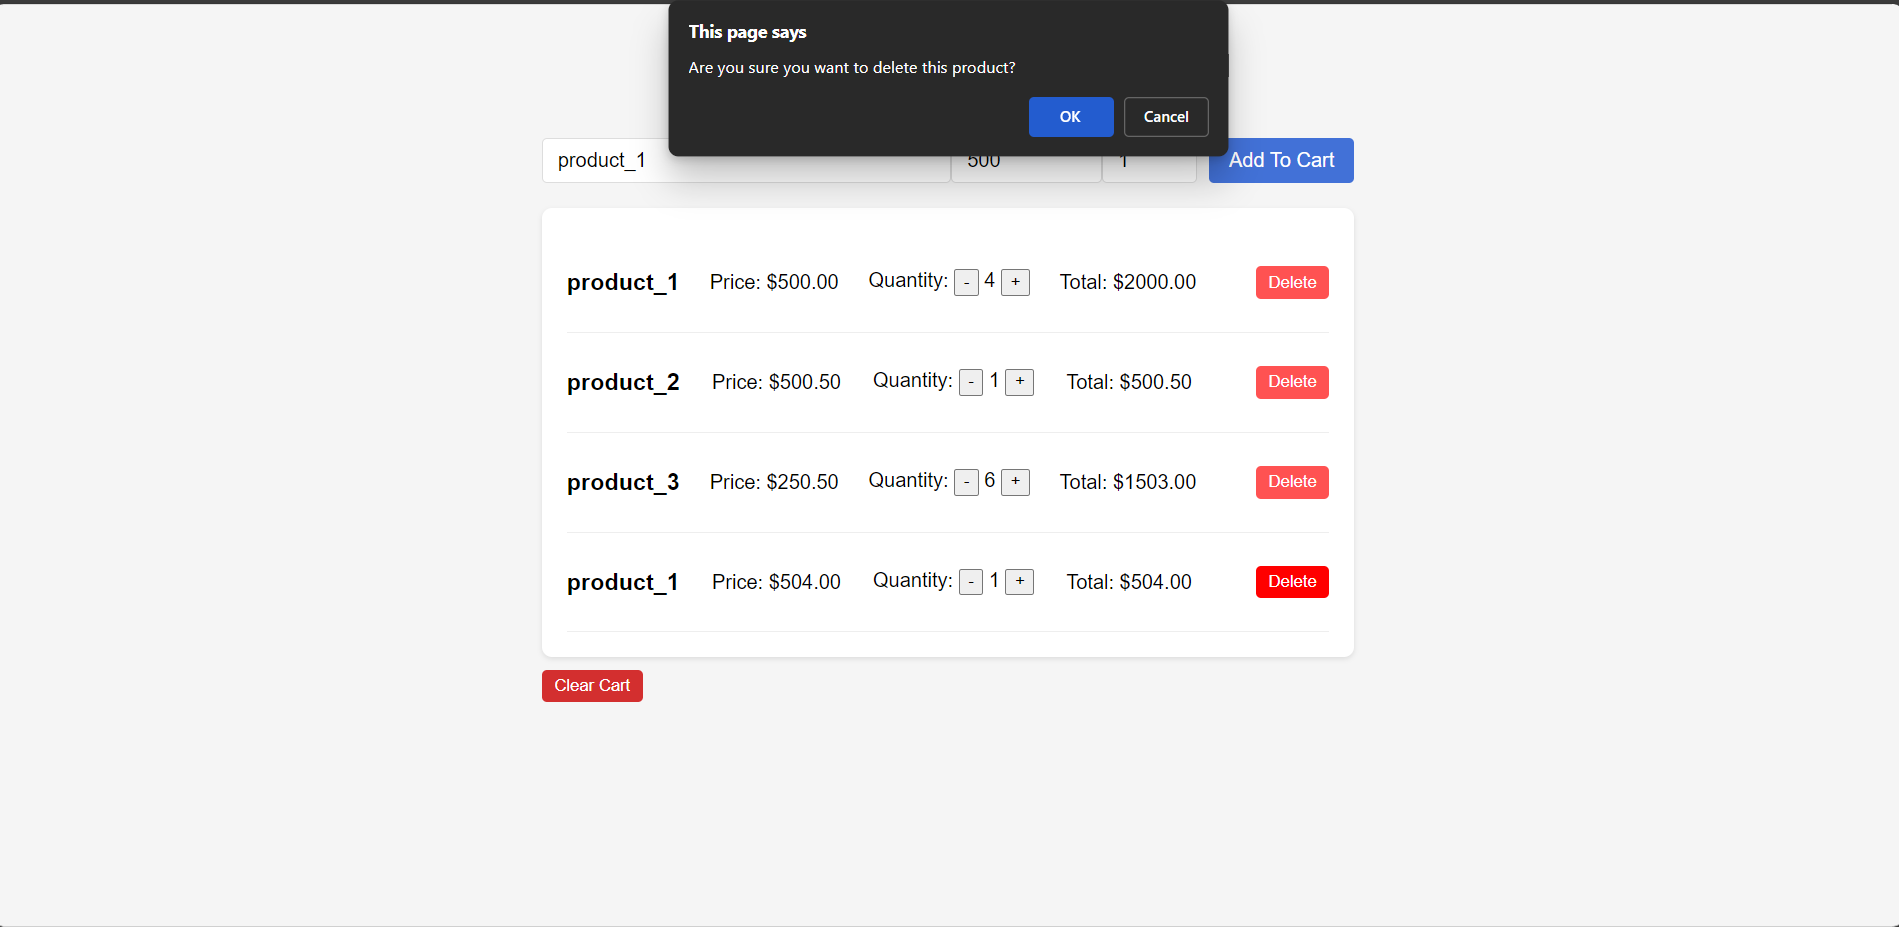
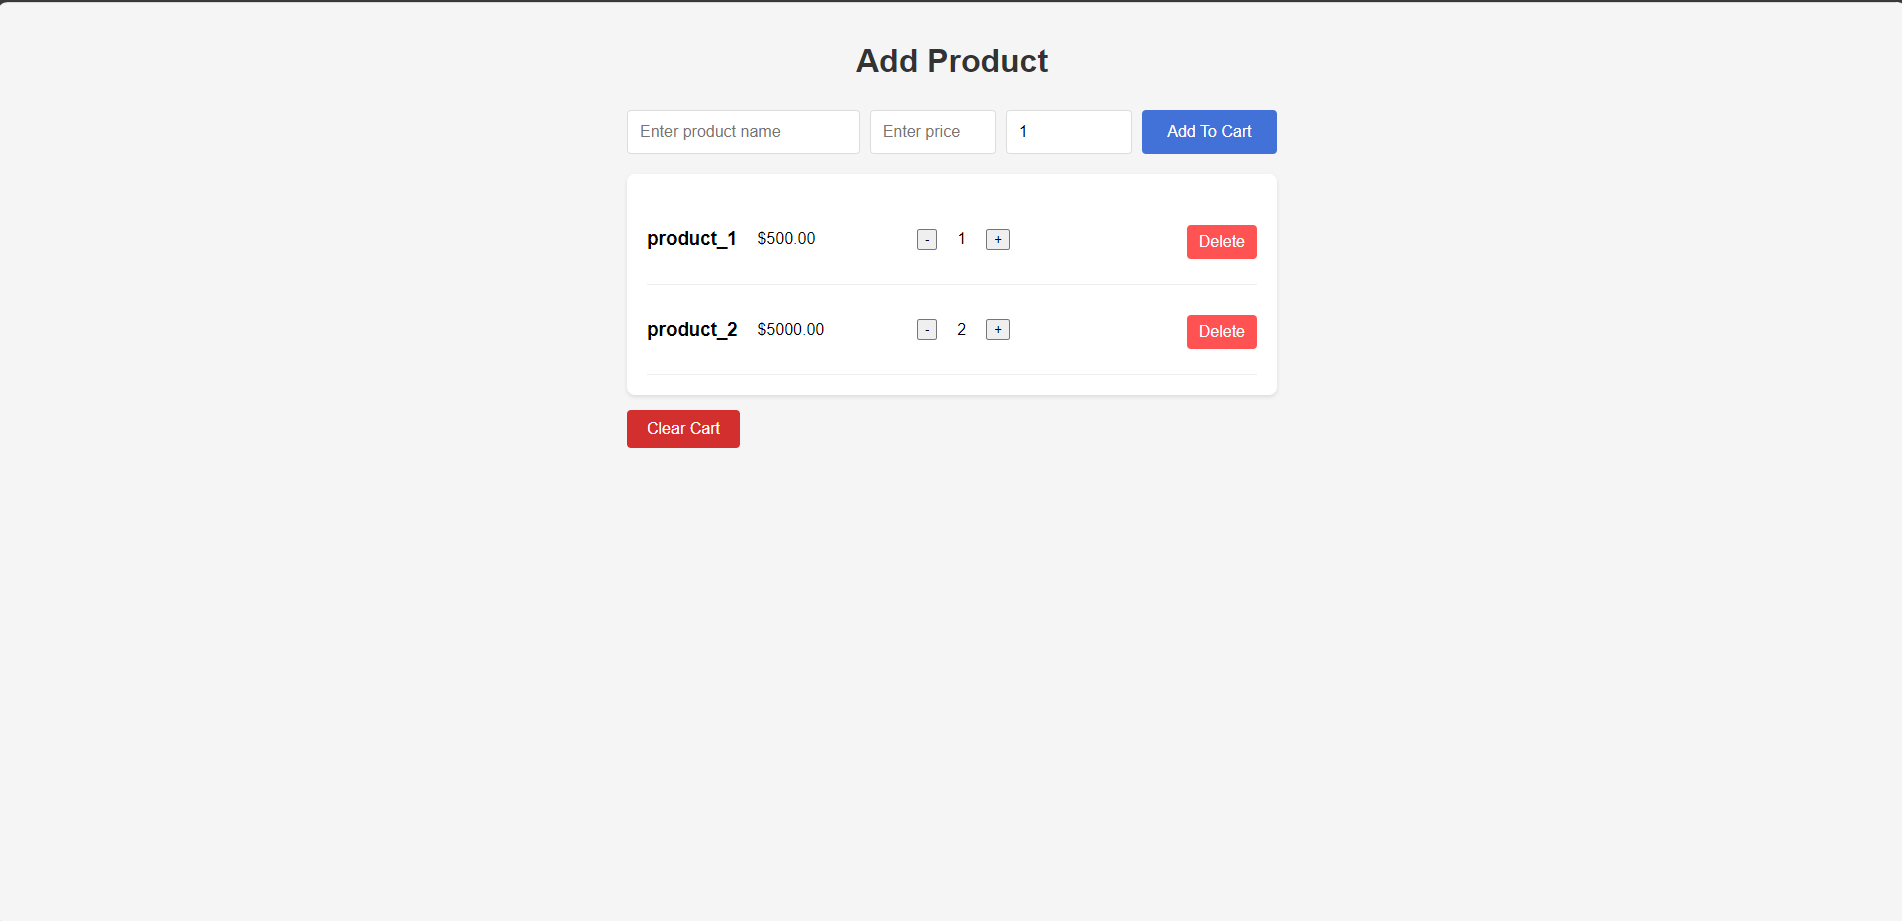
Responsive feature added

diff --git a/style.css b/style.css
@@ -1,4 +1,4 @@
-
+/*style for all devices*/
 body {
     font-family: Arial, sans-serif;
     max-width: 650px;
@@ -6,86 +6,85 @@ body {
     padding: 20px;
     background-color: #f5f5f5;
 }
-
 h1 {
     text-align: center;
     color: #333;
     margin-bottom: 30px;
 }
-
 .input_container {
     display: flex;
     margin-bottom: 20px;
 }
-
-#product_name , #product_price{
-    
-    padding: 8px 12px;
+#product_name , #product_price, #product_quantity{
+    padding:  12px;
     border: 1px solid #ddd;
     border-radius: 4px;
     font-size: 16px;
-}
-#product_name{
-    flex-grow: 1;
+    width: 100%; /* Full width */
 }
 #product_price{
 width: 95px;
 }
-#product_name:focus, #product_price:focus {
+#product_name:focus,
+ #product_price:focus,
+ #product_quantity:focus {
     outline: none;
     border-color: #4CAF50;
     box-shadow: 0 0 5px rgba(76, 175, 80, 0.3);
 }
 
-#product_quantity {
-    padding: 8px 12px;
-    border: 1px solid #ddd;
-    border-radius: 4px;
-    font-size: 16px;
-    width: 50px; 
-    margin-right: 10px;
-}
 #addProduct_btn {
     background-color: #4271d7;
     color: white;
     border: none;
     border-radius: 4px;
-    padding: 8px 16px;
+    padding: 12px 16px;
     cursor: pointer;
     font-size: 16px;
+    width: 100%;
    
 }
 
 #addProduct_btn:hover {
     background-color: #4553a0;
 }
-.alert-success{
-    color:#0a3622;
-    background-color: #45a049;
-}
+
 #product_container {
     background-color: white;
     border-radius: 8px;
-    padding: 20px;
+    padding: 15px;
     box-shadow: 0 2px 4px rgba(0,0,0,0.1);
 }
 
 .product-item {
     display: flex;
+    flex-direction: column;
     justify-content: space-between;
-    align-items: center;
-    padding: 10px 0;
+    padding: 15px 0;
     border-bottom: 1px solid #eee;
+    gap: 10px;
+}
+.product-info {
+    display: flex;
+    justify-content: space-between;
+    width: 100%;
 }
 
+.quantity-controls {
+    display: flex;
+    align-items: center;
+    gap: 10px;
+}
 
 .delete_product {
     background-color: #ff5252;
     color: white;
     border: none;
     border-radius: 4px;
-    padding: 5px 10px;
+    padding: 8px 12px;
     cursor: pointer;
+    font-size: 16px;
+    margin-top: 5px;
     transition: background-color 0.3s;
 }
 
@@ -93,16 +92,58 @@ width: 95px;
     background-color: #ff0000;
 }
 #clearAll_btn{
-    background-color: #d32f2f;
-    margin-top: 10px; 
+    background-color: #d32f2f; 
     color: white;
     border: none;
     border-radius: 4px;
-    padding: 5px 10px;
+    margin-top: 15px;
+    padding:  10px;
     cursor: pointer;
+    width: 100%;
+    font-size: 16px;
     transition: background-color 0.3s;
 }
 
 #clearAll_btn:hover {
     background-color: #b71c1c;
+}
+
+/*style for desctop and tablet devices*/
+@media(min-width: 600px) {
+    .input_container {
+        flex-direction: row;
+        flex-wrap: wrap;
+        gap: 10px;
+    } 
+    #product_name{
+flex:2;
+min-width: 200px;
+    }
+    #product_price, #product_quantity {
+       
+        width:100px; /*fixed width*/
+    }
+
+    #addProduct_btn {
+        width: auto; /* Auto width */
+        flex: 1;
+    }
+    #product_container {
+        padding: 20px;
+    }
+    .product-item {
+        flex-direction: row;
+        justify-content: space-between;
+        align-items: center;
+        
+    } 
+    .product-info ,.quantity-controls {
+       width: 90px;
+       gap: 20px;
+       align-items: center;
+    }
+    #clearAll_btn {
+        width: auto;
+        padding: 10px 20px;
+    }
 }

diff --git a/script.js b/script.js
@@ -65,25 +65,20 @@ function displayData(items) {
     }
     items.forEach(function (item) {
         product_container.innerHTML += `
-            <div class="product-item">
+        <div class="product-item">
+            <div class="product-info">
                 <h3>${item.name}</h3>
-                <p>Price: $${item.price.toFixed(2)}</p>
-                <p>
-                Quantity: 
+                <p>$${item.price.toFixed(2)}</p>
+            </div>
+            <div class="quantity-controls">
                 <button onclick='changeQuantity(${item.id}, -1)'>-</button>
-                ${item.quantity}
+                <span>${item.quantity}</span>
                 <button onclick='changeQuantity(${item.id}, 1)'>+</button>
-                </p>
-                 <p>Total: $${(item.price * item.quantity).toFixed(2)}</p>
-                <p>${item.desc ? item.desc : ''}</p>
-                <button class='delete_product' onclick='deleteProduct(${item.id})'>
-                Delete
-                </button>
-            </div>`;
+            </div>
+            <button class='delete_product'>Delete</button>
+        </div>`;
     });
 }
-
-
 
 // Event Handlers
 //Displays products when the page finishes loading

diff --git a/README.md b/README.md
@@ -1,6 +1,6 @@
 # Shopping Cart Application
 
-<img src="./preview2 (2).png"> 
+<img src="./preview3.png"> 
 
 A simple, client-side shopping cart application built with HTML, CSS, and JavaScript. Products are stored in the browser's localStorage.
 
